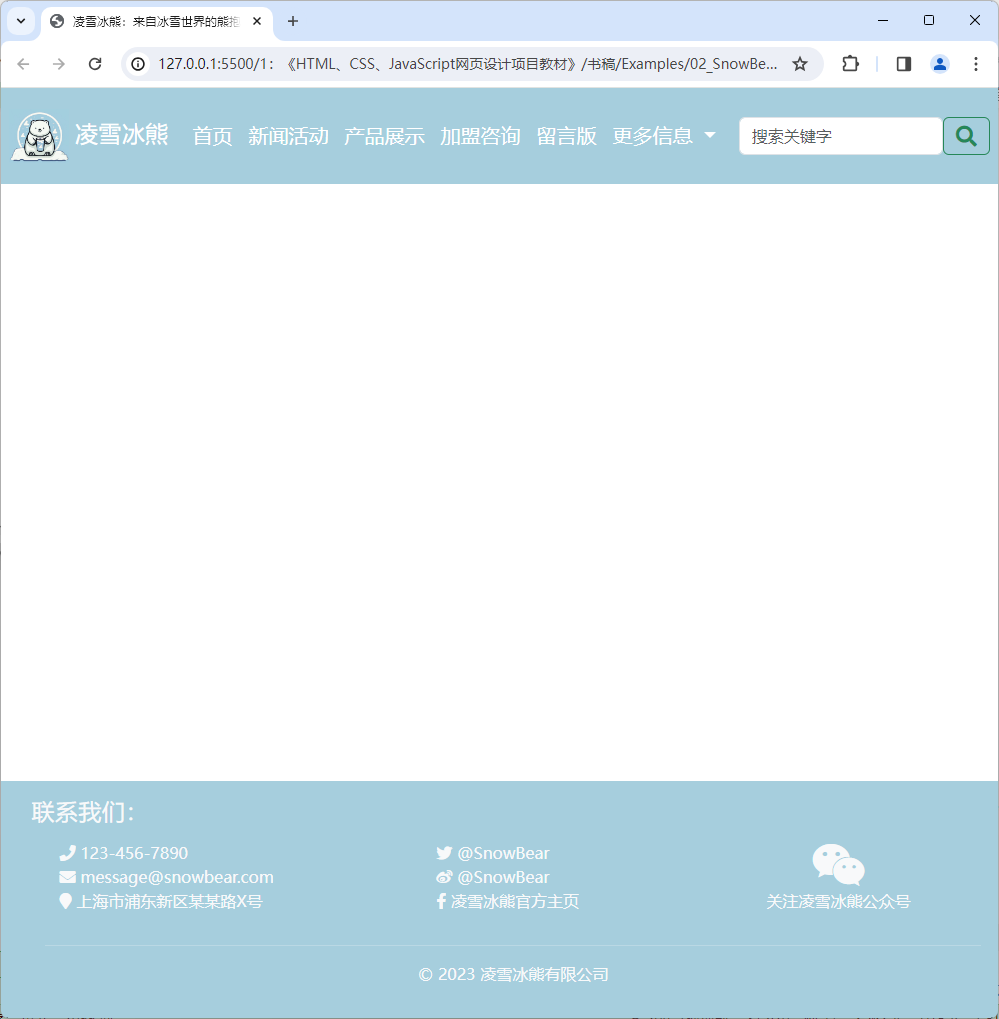
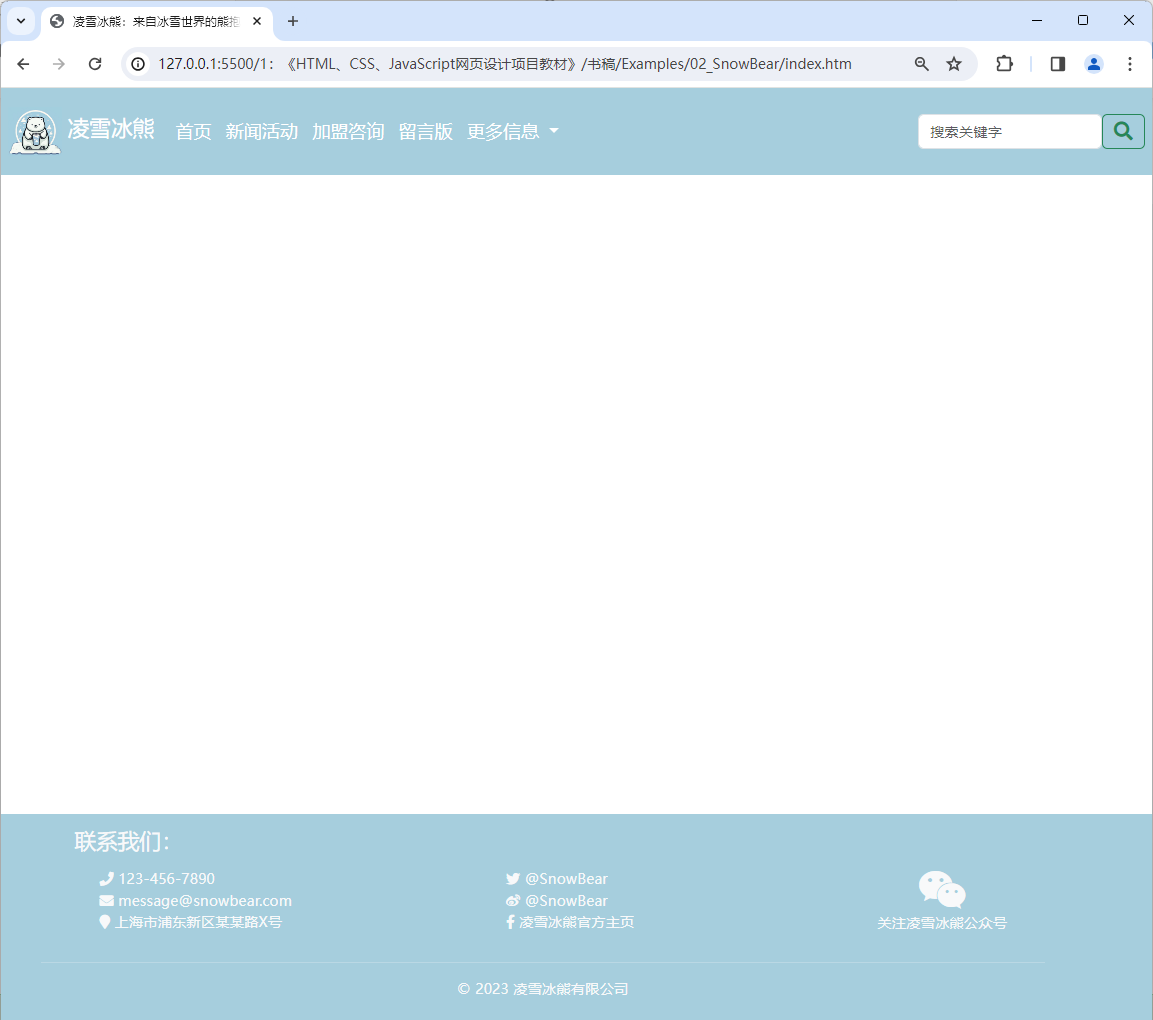
'项目4：开始'

diff --git a/Markdown/02.md b/Markdown/02.md
@@ -4,7 +4,7 @@
 
 ## 【学习目标】
 
-在本章，笔者将会以一家名为“凌雪冰熊”的连锁饮料店的需求为例来演示如何完成企业网站的首页设计，以便向公众展示该饮料店的品牌信息，以便建立起人们对这家连锁品牌的第一印象。同时，该项目也会为该企业网站后续要设计的新闻活动、产品展示、加盟咨询、留言板等页面设置好统一的布局风格与配色方案，并预留整合这些页面的导航链接。通过本章项目的实践，读者将会初步了解设计一个企业展示类页面所要执行的基本步骤，以及执行这些步骤所需的基本技术与相关工具。总而言之，在阅读完本章之后，我们希望读者能够：
+在本章，笔者将会以一家名为“凌雪冰熊”的连锁饮料店的需求为例来演示如何完成企业网站的首页设计，以便向公众展示该饮料店的品牌信息，以便建立起人们对这家连锁品牌的第一印象。同时，该项目也会为该企业网站后续要设计的新闻活动、申请加盟、留言板等页面设置好统一的布局风格与配色方案，并预留整合这些页面的导航链接。通过本章项目的实践，读者将会初步了解设计一个企业展示类页面所要执行的基本步骤，以及执行这些步骤所需的基本技术与相关工具。总而言之，在阅读完本章之后，我们希望读者能够：
 
 - 了解HTML 5中提供的布局类标记，并掌握这些标记在网页设计工作中的具体使用；
 - 了解在开展网页设计工作时首先要解决的尺寸设置、配色选择等整体设计问题；
@@ -12,7 +12,7 @@
 
 ## 【学习场景描述】
 
-现在你是一位刚刚入职到一家名为“凌雪冰熊”连锁饮料店的网页设计师。该连锁店的领导层决定为企业开发一个官方网站，以便向公众更好地展示自己的品牌形象，企业最新的活动，并为潜在的合作伙伴提供咨询信息，进一步扩展线下实体店的加盟规模。在这个网页设计项目中，你的主要任务有两个：首先是为该企业网站完成首页部分的设计，以便为该连锁饮料店建立良好的品牌印象。其次，你需要为该网站设计统一的布局风格与外观样式，为后续要进行的新闻活动、加盟咨询、留言板等网页的设计项目打好基础。
+现在你是一位刚刚入职到一家名为“凌雪冰熊”连锁饮料店的网页设计师。该连锁店的领导层决定为企业开发一个官方网站，以便向公众更好地展示自己的品牌形象，企业最新的活动，并为潜在的合作伙伴提供咨询信息，进一步扩展线下实体店的加盟规模。在这个网页设计项目中，你的主要任务有两个：首先是为该企业网站完成首页部分的设计，以便为该连锁饮料店建立良好的品牌印象。其次，你需要为该网站设计统一的布局风格与外观样式，为后续要进行的新闻活动、申请加盟、留言板等网页的设计项目打好基础。
 
 ## 【任务书】
 
@@ -654,16 +654,13 @@ Bootstrap框架是一款由Twitter公司推出、基于HTML+CSS+JavaScript技术
                     </a>
                     </li>
                     <li class="nav-item">
-                    <a class="nav-link" href="#">新闻活动</a>
+                        <a class="nav-link" href="#">新闻活动</a>
                     </li>
                     <li class="nav-item">
-                    <a class="nav-link" href="#">产品展示</a>
+                        <a class="nav-link" href="#">申请加盟</a>
                     </li>
                     <li class="nav-item">
-                    <a class="nav-link" href="#">加盟咨询</a>
-                    </li>
-                    <li class="nav-item">
-                    <a class="nav-link" href="#">留言版</a>
+                        <a class="nav-link" href="#">留言版</a>
                     </li>
                     <li class="nav-item dropdown">
                     <a class="nav-link dropdown-toggle"
@@ -879,7 +876,7 @@ Bootstrap框架是一款由Twitter公司推出、基于HTML+CSS+JavaScript技术
 
 3. 在保存上述代码之后，使用网页浏览器打开`index.htm`文件查看当前网页设计的结果，其外观在Google Chrome浏览器中的效果如图2-7所示。
 
-    ![图2-7](./img/2-7.jpeg)
+    ![图2-7](./img/2-7.pn)
 
     **图2-7**：凌雪冰熊官方网站的首页设计
 

diff --git a/Markdown/03.md b/Markdown/03.md
@@ -4,7 +4,7 @@
 
 ## 【学习目标】
 
-在本章，笔者会继续以凌雪冰熊连锁饮料店的需求为例来演示如何为企业网站设计新闻活动页，以便向公众展示企业的最近经营活动以及获得的业绩和社会影响力，以便加强人们对这家连锁饮料店的了解与信心。同时，该网页的设计也必须要延续该网站首页建立起来的布局风格与配色方案，并同样在导航栏中预留跳转到网站首页、产品展示、加盟咨询、留言板等页面的链接。通过本章项目的实践，读者将会初步了解完成一个图文信息类页面的排版任务所要执行的基本步骤，以及执行这些步骤所需的基本技术与相关工具。总而言之，在阅读完本章之后，我们希望读者能够：
+在本章，笔者会继续以凌雪冰熊连锁饮料店的需求为例来演示如何为企业网站设计新闻活动页，以便向公众展示企业的最近经营活动以及获得的业绩和社会影响力，以便加强人们对这家连锁饮料店的了解与信心。同时，该网页的设计也必须要延续该网站首页建立起来的布局风格与配色方案，并同样在导航栏中预留跳转到网站首页、申请加盟、留言板等页面的链接。通过本章项目的实践，读者将会初步了解完成一个图文信息类页面的排版任务所要执行的基本步骤，以及执行这些步骤所需的基本技术与相关工具。总而言之，在阅读完本章之后，我们希望读者能够：
 
 - 了解HTML 5中提供的图文类标记，并掌握这些标记在网页设计工作中的具体使用；
 - 了解在网页中进行图文排版工作时要使用的元素盒模型以及相关的元素定位问题；
@@ -880,7 +880,7 @@
                             <a class="nav-link" href="#">产品展示</a>
                         </li>
                         <li class="nav-item">
-                            <a class="nav-link" href="#">加盟咨询</a>
+                            <a class="nav-link" href="#">申请加盟</a>
                         </li>
                         <li class="nav-item">
                             <a class="nav-link" href="#">留言版</a>
@@ -979,21 +979,18 @@
             <div class="collapse navbar-collapse" id="navbarSupportedContent">
                 <ul class="navbar-nav me-auto mb-2 mb-lg-0 fs-5">
                     <li class="nav-item">
-                    <a class="nav-link" href="./index.htm">首页</a>
+                        <a class="nav-link" href="./index.htm">首页</a>
                     </li>
                     <li class="nav-item">
-                    <a class="nav-link active" aria-current="page" href="./news.htm">
-                        新闻活动
-                    </a>
+                        <a class="nav-link active" aria-current="page" href="./news.htm">
+                            新闻活动
+                        </a>
                     </li>
                     <li class="nav-item">
-                    <a class="nav-link" href="#">产品展示</a>
+                        <a class="nav-link" href="#">申请加盟</a>
                     </li>
                     <li class="nav-item">
-                    <a class="nav-link" href="#">加盟咨询</a>
-                    </li>
-                    <li class="nav-item">
-                    <a class="nav-link" href="#">留言版</a>
+                       <a class="nav-link" href="#">留言版</a>
                     </li>
                     <li class="nav-item dropdown">
                     <a class="nav-link dropdown-toggle"

diff --git a/Markdown/04.md b/Markdown/04.md
@@ -1,8 +1,10 @@
-# 项目4 企业网站的加盟咨询页设计
+# 项目4 企业网站的申请表单设计
 
-## 【学习场景描述】
+企业网站的申请表单页设计在网页设计领域中属于输入性的用户界面设计项目，其设计目的是让目标网页成为一个用户体验良好的、用于输入数据的人机交互界面，以便Web应用程序的用户能按照其用户界面所指定的规则输入数据，并将其提交给它的服务端。在此类项目中，网页设计师们通常会充分利用HTML文档中的按钮、标签、输入框、单选扭、复选框、下拉列表等交互类页面元素来完成对用户输入界面的设计，以便人们能在良好的操作体验下安全地输入数据并将其提给服务器，从而为该企业吸引到更多潜在的用户。因此，企业网站中的表单设计也被认为是企业网站设计工作中绕不开的重点任务之一。
 
 ## 【学习目标】
+
+## 【学习场景描述】
 
 ## 【任务书】
 
@@ -10,22 +12,10 @@
 
 ## 【工作准备】
 
-### 知识点1：HTML中的布局标记
-
-（介绍<header>、<nav>、<section>、<article>等布局类标记及其作用）
-
-### 知识点2：超链接及其作用
-
-（介绍<a>标记能创建的各种超链接类型及其在网页中起到的导航作用）
-
-### 知识点3：网页中的字体与颜色
-
-（介绍字体的选择与大小设置的方法，以及RGB颜色设置的基础知识）
-
 ## 【工作实施和交付】
 
 ## 【拓展知识】
 
 ## 【作业】
 
-## 【工作评价】
+## 【作业评价】

diff --git a/Markdown/05.md b/Markdown/05.md
@@ -1,8 +1,8 @@
-# 项目5 企业网站的产品展示页设计
-
-## 【学习场景描述】
+# 项目5 企业网站的留言版界面设计
 
 ## 【学习目标】
+
+## 【学习场景描述】
 
 ## 【任务书】
 
@@ -16,4 +16,4 @@
 
 ## 【作业】
 
-## 【工作评价】
+## 【作业评价】
